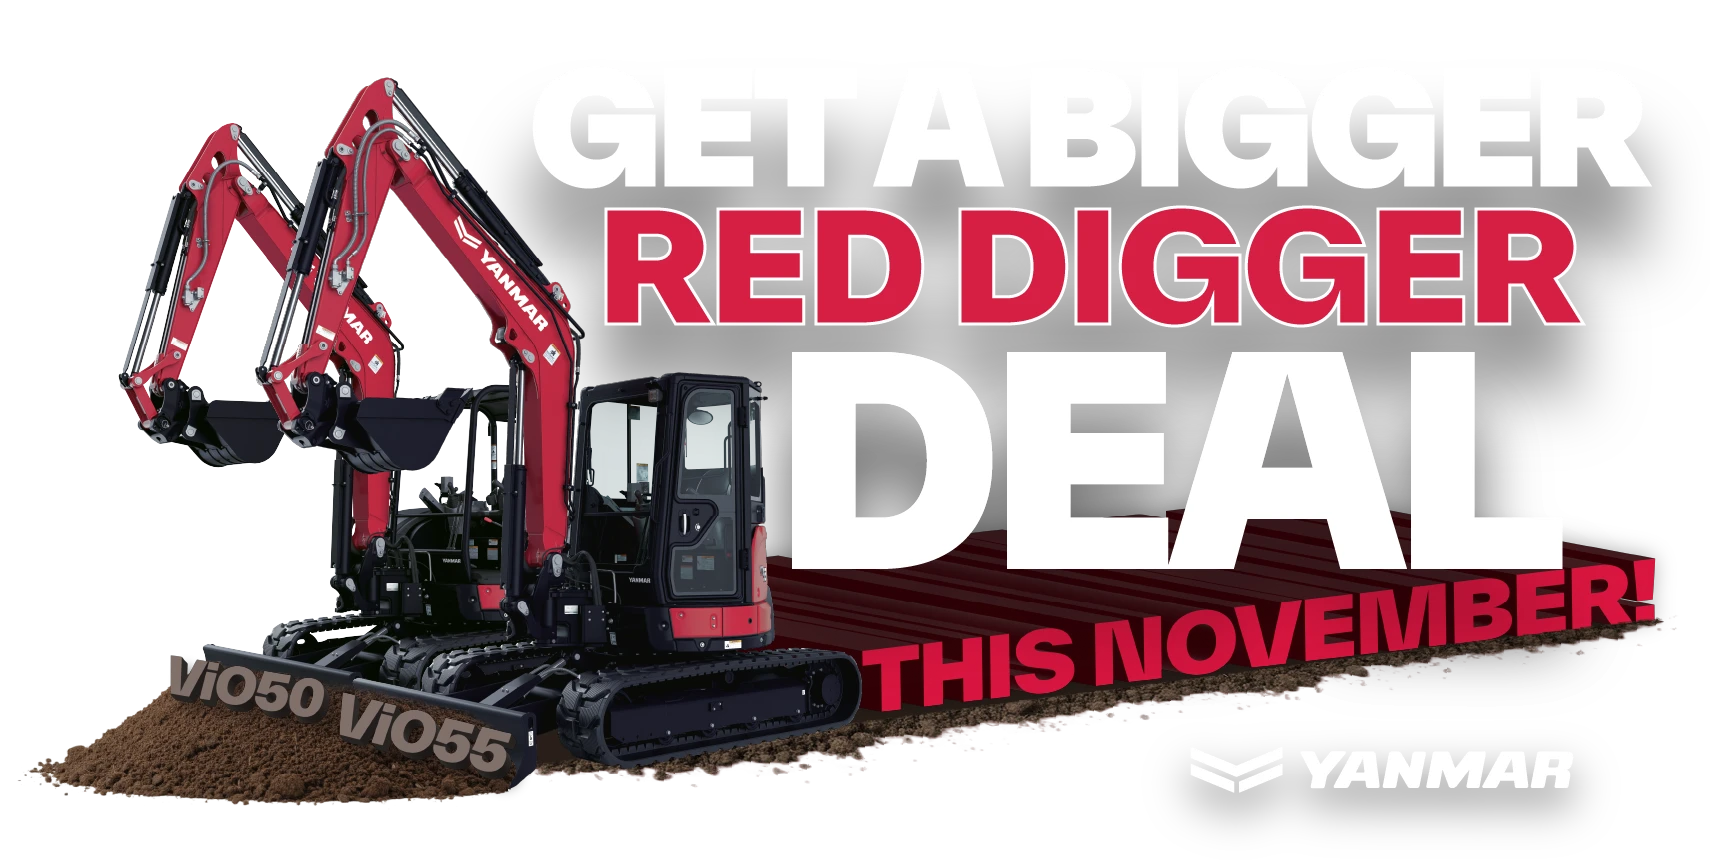
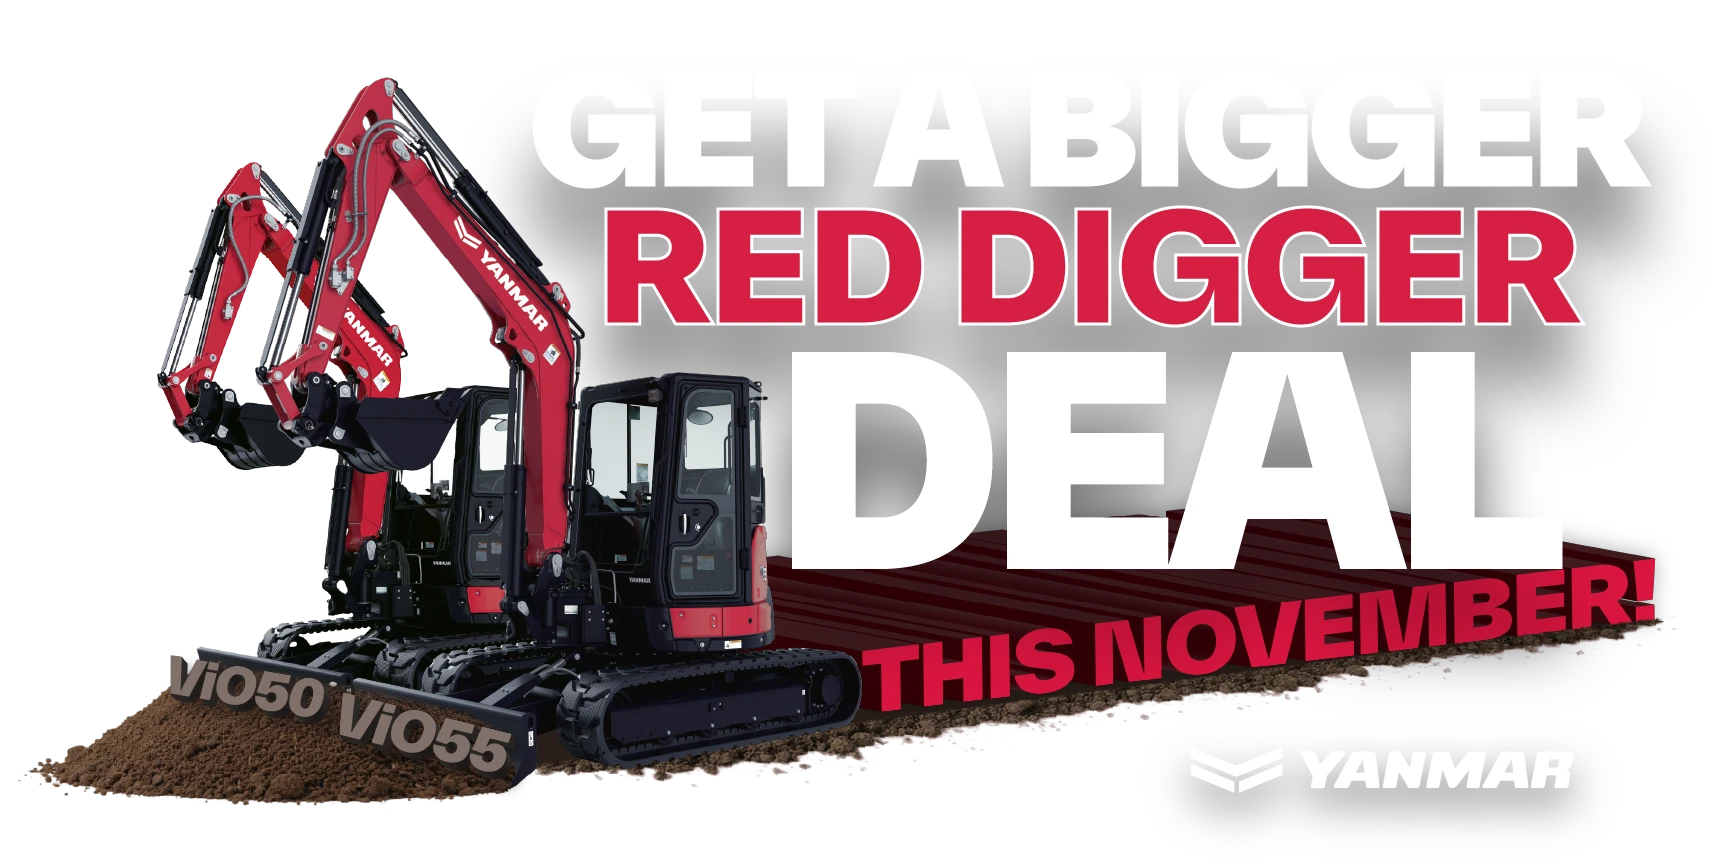
edits

Changed region(s): [[0.062, 0.1512, 0.3099, 0.8163]]

diff --git a/html/yanmar-bigger-red-digger-deals.html b/html/yanmar-bigger-red-digger-deals.html
@@ -540,7 +540,7 @@
     <div class="yanmarChooseNav yanmarChooseNav2  noPadTop noPadBottom ultimateWorkhorse">
 
         <div class="thumb">
-            <img src="/images/2025/yanmar-bigger-red-digger/ViO-50-6@0.75x.png">
+            <img src="/images/2025/yanmar-bigger-red-digger/ViO-55-6-PTO1@0.75x.png">
             <h2>ViO50-6</h2> 
 
             <h4 style="padding: 0; ">with A2 RAM-TILT</h4>
@@ -569,7 +569,7 @@
         </div>
         <div class="thumb">
             <img src="/images/2025/yanmar-bigger-red-digger/ViO-55-6-PTO2@0.75x.png">
-            <h2>ViO55-6 PTO1</h2> 
+            <h2>ViO55-6 PTO2</h2> 
 
             <h4 style="padding: 0; ">with A2 RAM-TILT</h4>
             <h1>$96,888<span style="font-size: 40%; font-weight: 300; letter-spacing: 0; line-height: 1em;">&nbsp;+GST</span></h1>
